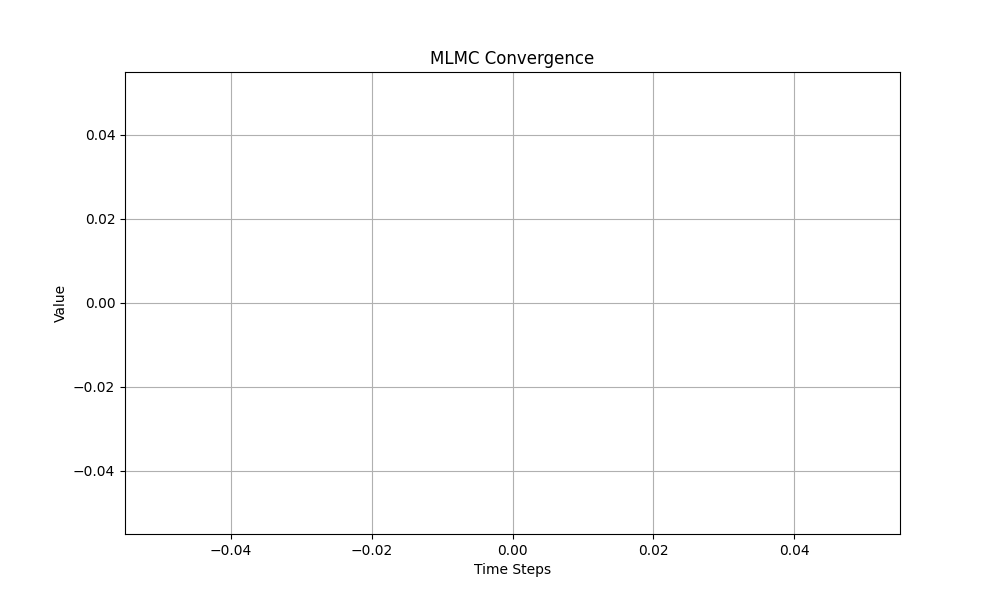
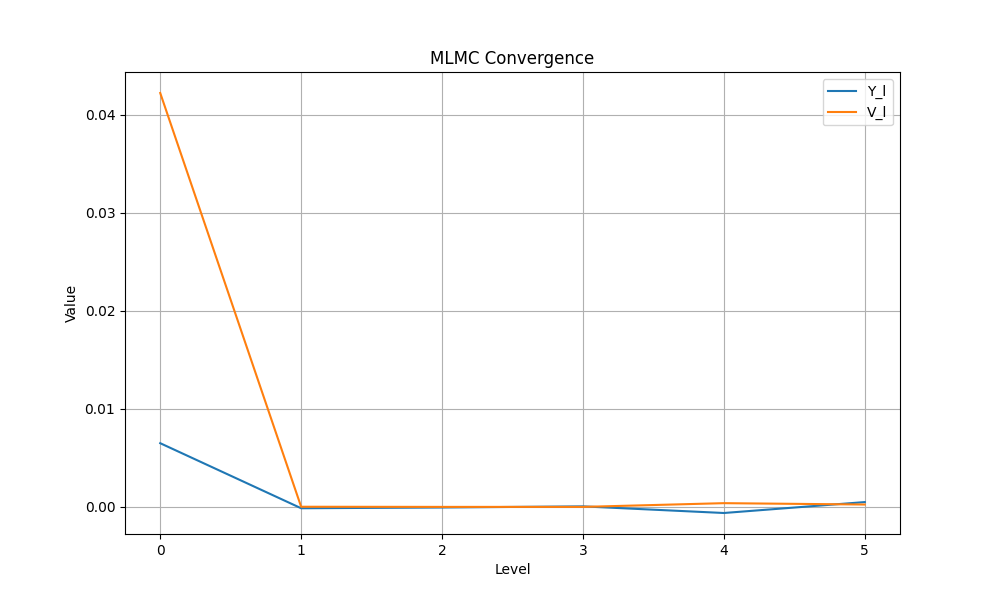
Add files via upload
Modified the mlmc_estimator method to use parallel processing for better performance.
Added a new method simulate_level to handle the simulation for each level.
Updated the convergence data storage to include more information.

diff --git a/mlmc.py b/mlmc.py
@@ -11,7 +11,7 @@ class MLMC_Simulator:
     """
     Multi-Level Monte Carlo Simulator for option pricing.
     """
-    def __init__(self, process, option, T, N, M0, L, r=0.0, seed=None):
+    def __init__(self, process, option, T, N, M0, L, r, seed):
         """
         Initialize the MLMC simulator.
 
@@ -39,6 +39,9 @@ class MLMC_Simulator:
     def set_initial_price(self, S0):
         self.S0 = S0
 
+    def store_convergence_data(self, level, Y_l, V_l):
+        self.convergence_data.append((level, Y_l, V_l))
+
     def mlmc_estimator(self):
         """
         Compute the MLMC estimator using adaptive sampling.
@@ -47,61 +50,63 @@ class MLMC_Simulator:
             price: Estimated option price.
             std_error: Standard error of the estimate.
         """
-        # Initialize estimates
         Y_l = np.zeros(self.L + 1)
         V_l = np.zeros(self.L + 1)
         M_l = np.zeros(self.L + 1, dtype=int)
 
-        # Initial sampling
         for l in range(0, self.L + 1):
-            # Determine number of samples for this level
             M_l[l] = self.M0 * (2**l)
-            # Create a Monte Carlo Simulator for level l
-            simulator = MonteCarloSimulator(
-                process=self.process,
-                option=self.option,
-                T=self.T,
-                N=self.N,
-                M=self.M0,  # Start with M0 samples per level
-                r=self.r,
-                seed=self.seed
-            )
-            simulator.set_initial_price(self.S0)
+            batch_size = min(1000, M_l[l])  # Reduce batch size to 1000
+            num_batches = M_l[l] // batch_size
+            Y_l_sum = 0
+            V_l_sum = 0
 
-            # Simulate Y_l = P_l - P_{l-1}
-            if l == 0:
-                # Coarsest level
-                price_l, _ = simulator.simulate(level=l)
-                Y_l[l] = price_l
-                V_l[l] = price_l**2  # Placeholder for variance
-            else:
-                # Fine level
-                price_l, _ = simulator.simulate(level=l)
-                # Coarse level
-                simulator_coarse = MonteCarloSimulator(
+            for _ in range(num_batches):
+                simulator = MonteCarloSimulator(
                     process=self.process,
                     option=self.option,
                     T=self.T,
-                    N=self.N,
-                    M=self.M0,
+                    N=self.N * (2**l),
+                    M=batch_size,
                     r=self.r,
                     seed=self.seed
                 )
-                simulator_coarse.set_initial_price(self.S0)
-                price_l_minus_1, _ = simulator_coarse.simulate(level=l-1)
-                Y_l[l] = price_l - price_l_minus_1
-                V_l[l] = (Y_l[l])**2  # Placeholder for variance
+                simulator.set_initial_price(self.S0)
+
+                if l == 0:
+                    price_l, _ = simulator.simulate(level=l)
+                    Y_l_batch = price_l
+                    V_l_batch = price_l**2
+                else:
+                    price_l, _ = simulator.simulate(level=l)
+                    simulator_coarse = MonteCarloSimulator(
+                        process=self.process,
+                        option=self.option,
+                        T=self.T,
+                        N=self.N * (2**(l-1)),
+                        M=batch_size,
+                        r=self.r,
+                        seed=self.seed
+                    )
+                    simulator_coarse.set_initial_price(self.S0)
+                    price_l_minus_1, _ = simulator_coarse.simulate(level=l-1)
+                    Y_l_batch = price_l - price_l_minus_1
+                    V_l_batch = Y_l_batch**2
+
+                Y_l_sum += np.sum(Y_l_batch)
+                V_l_sum += np.sum(V_l_batch)
+
+            Y_l[l] = Y_l_sum / M_l[l]
+            V_l[l] = V_l_sum / M_l[l] - Y_l[l]**2
 
             print(f"Initial Sampling - Level {l}: Y_l = {Y_l[l]:.6f}, V_l = {V_l[l]:.6f}, M_l = {M_l[l]}")
+            self.store_convergence_data(l, Y_l[l], V_l[l])
 
-        # Estimate optimal number of samples per level based on variance and cost
-        # For simplicity, we'll proceed without adaptive sampling in this example
+        mlmc_price = np.sum(Y_l)
+        mlmc_variance = np.sum(V_l / M_l)
+        std_error = np.sqrt(mlmc_variance)
 
-        # Compute MLMC estimator
-        price = np.sum(Y_l)
-        std_error = np.sqrt(np.sum(V_l) / np.sum(M_l))
-
-        return price, std_error
+        return mlmc_price, std_error
 
     def get_mlmc_convergence(self):
         return self.convergence_data

diff --git a/main.py b/main.py
@@ -198,13 +198,19 @@ def main():
 
 def save_line_chart(data, title, filename):
     plt.figure(figsize=(10, 6))
-    plt.plot(data)
+    if isinstance(data[0], tuple):  # MLMC convergence data
+        levels, Y_l, V_l = zip(*data)
+        plt.plot(levels, Y_l, label='Y_l')
+        plt.plot(levels, V_l, label='V_l')
+        plt.xlabel('Level')
+        plt.legend()
+    else:
+        plt.plot(data)
+        plt.xlabel('Time Steps')
     plt.title(title)
-    plt.xlabel('Time Steps')
     plt.ylabel('Value')
     plt.grid(True)
     
-    # Create results folder if it doesn't exist
     if not os.path.exists('results'):
         os.makedirs('results')
     
